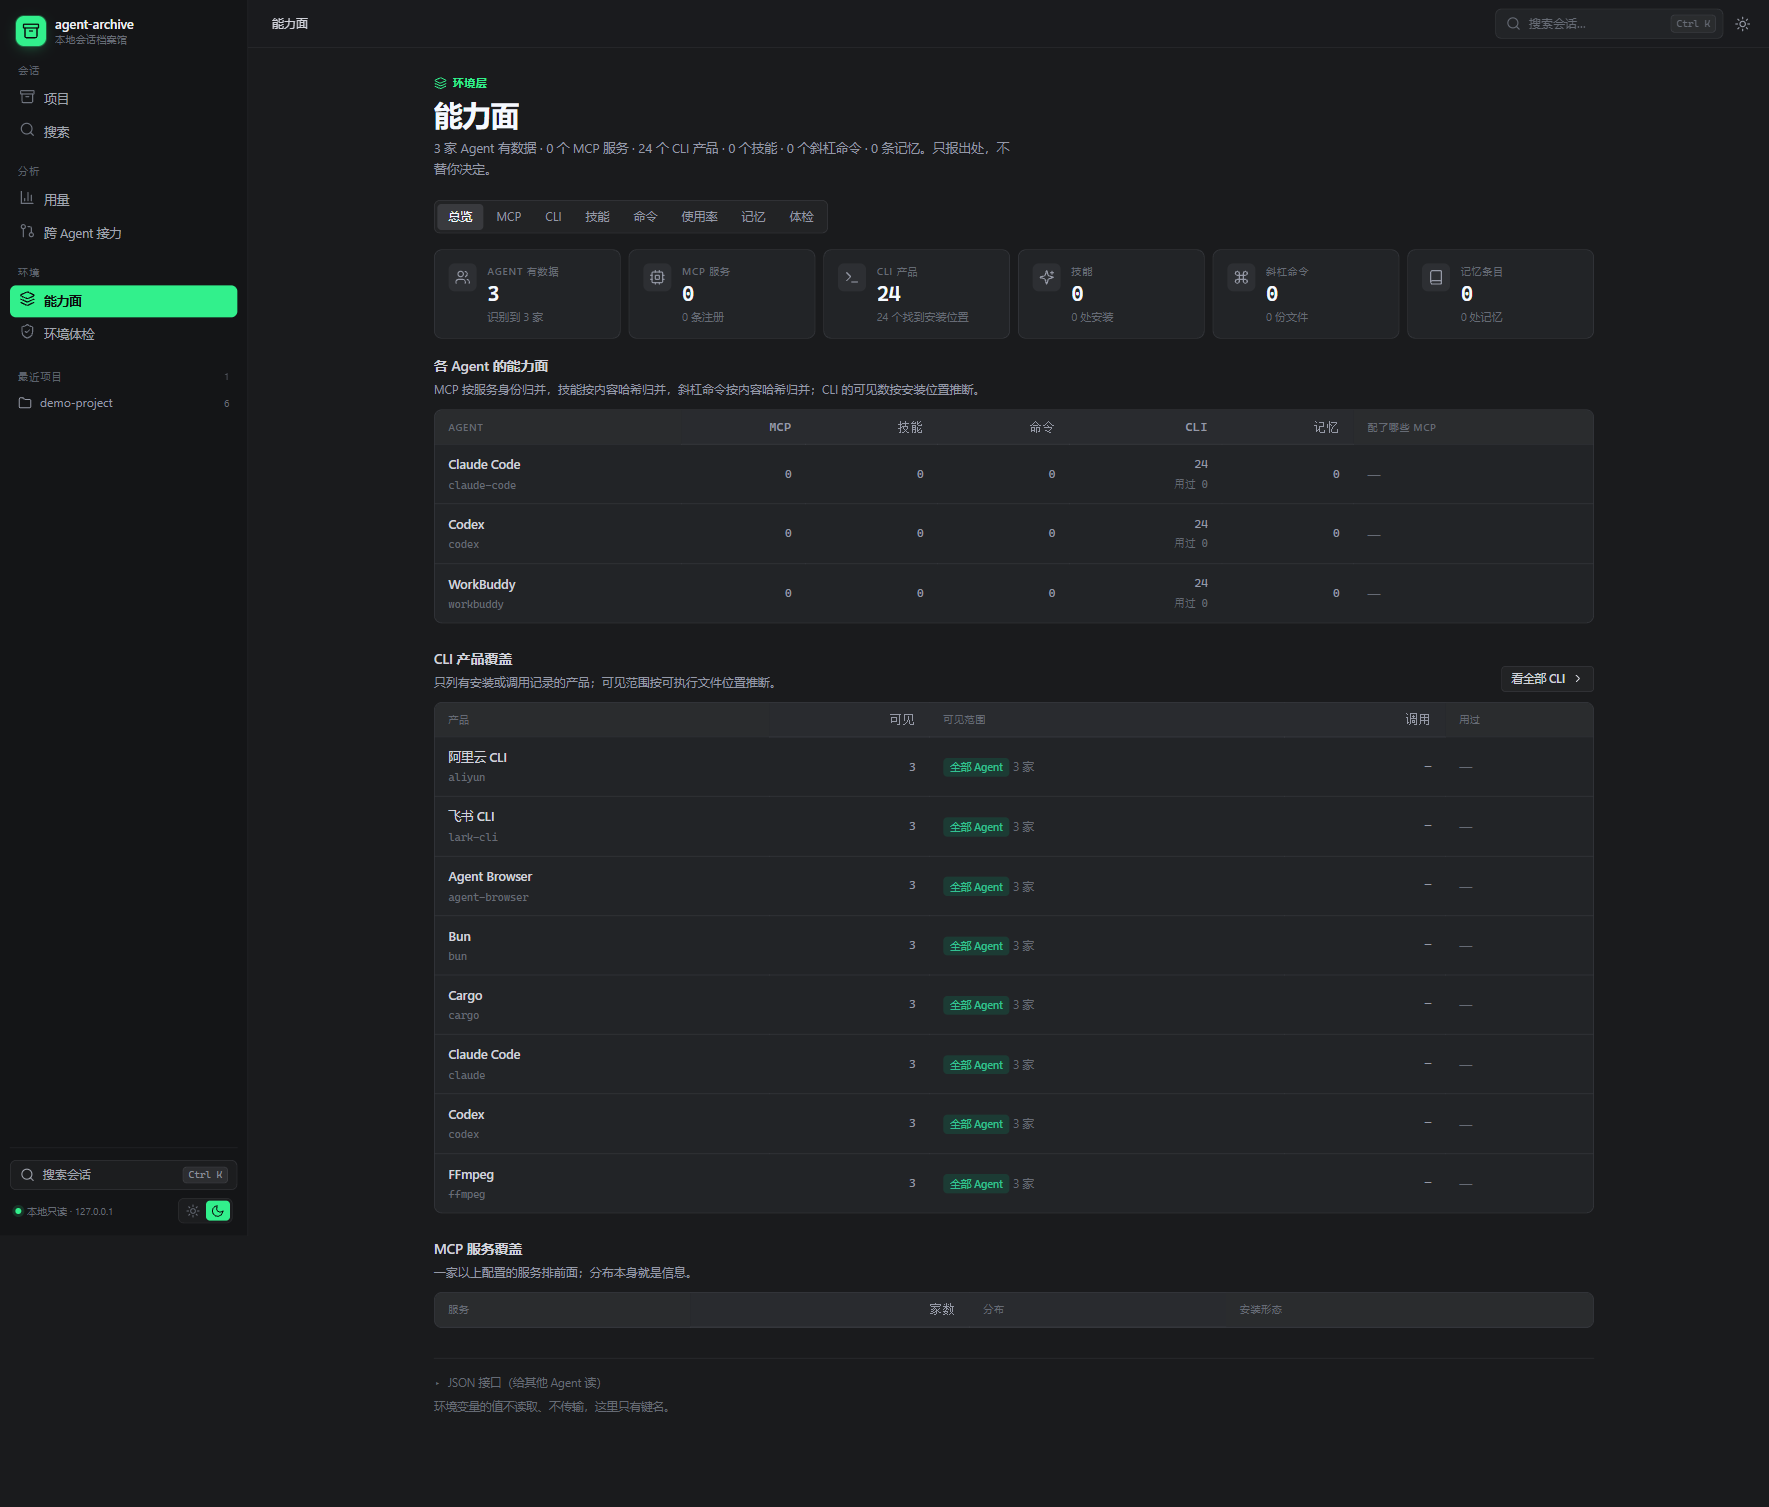
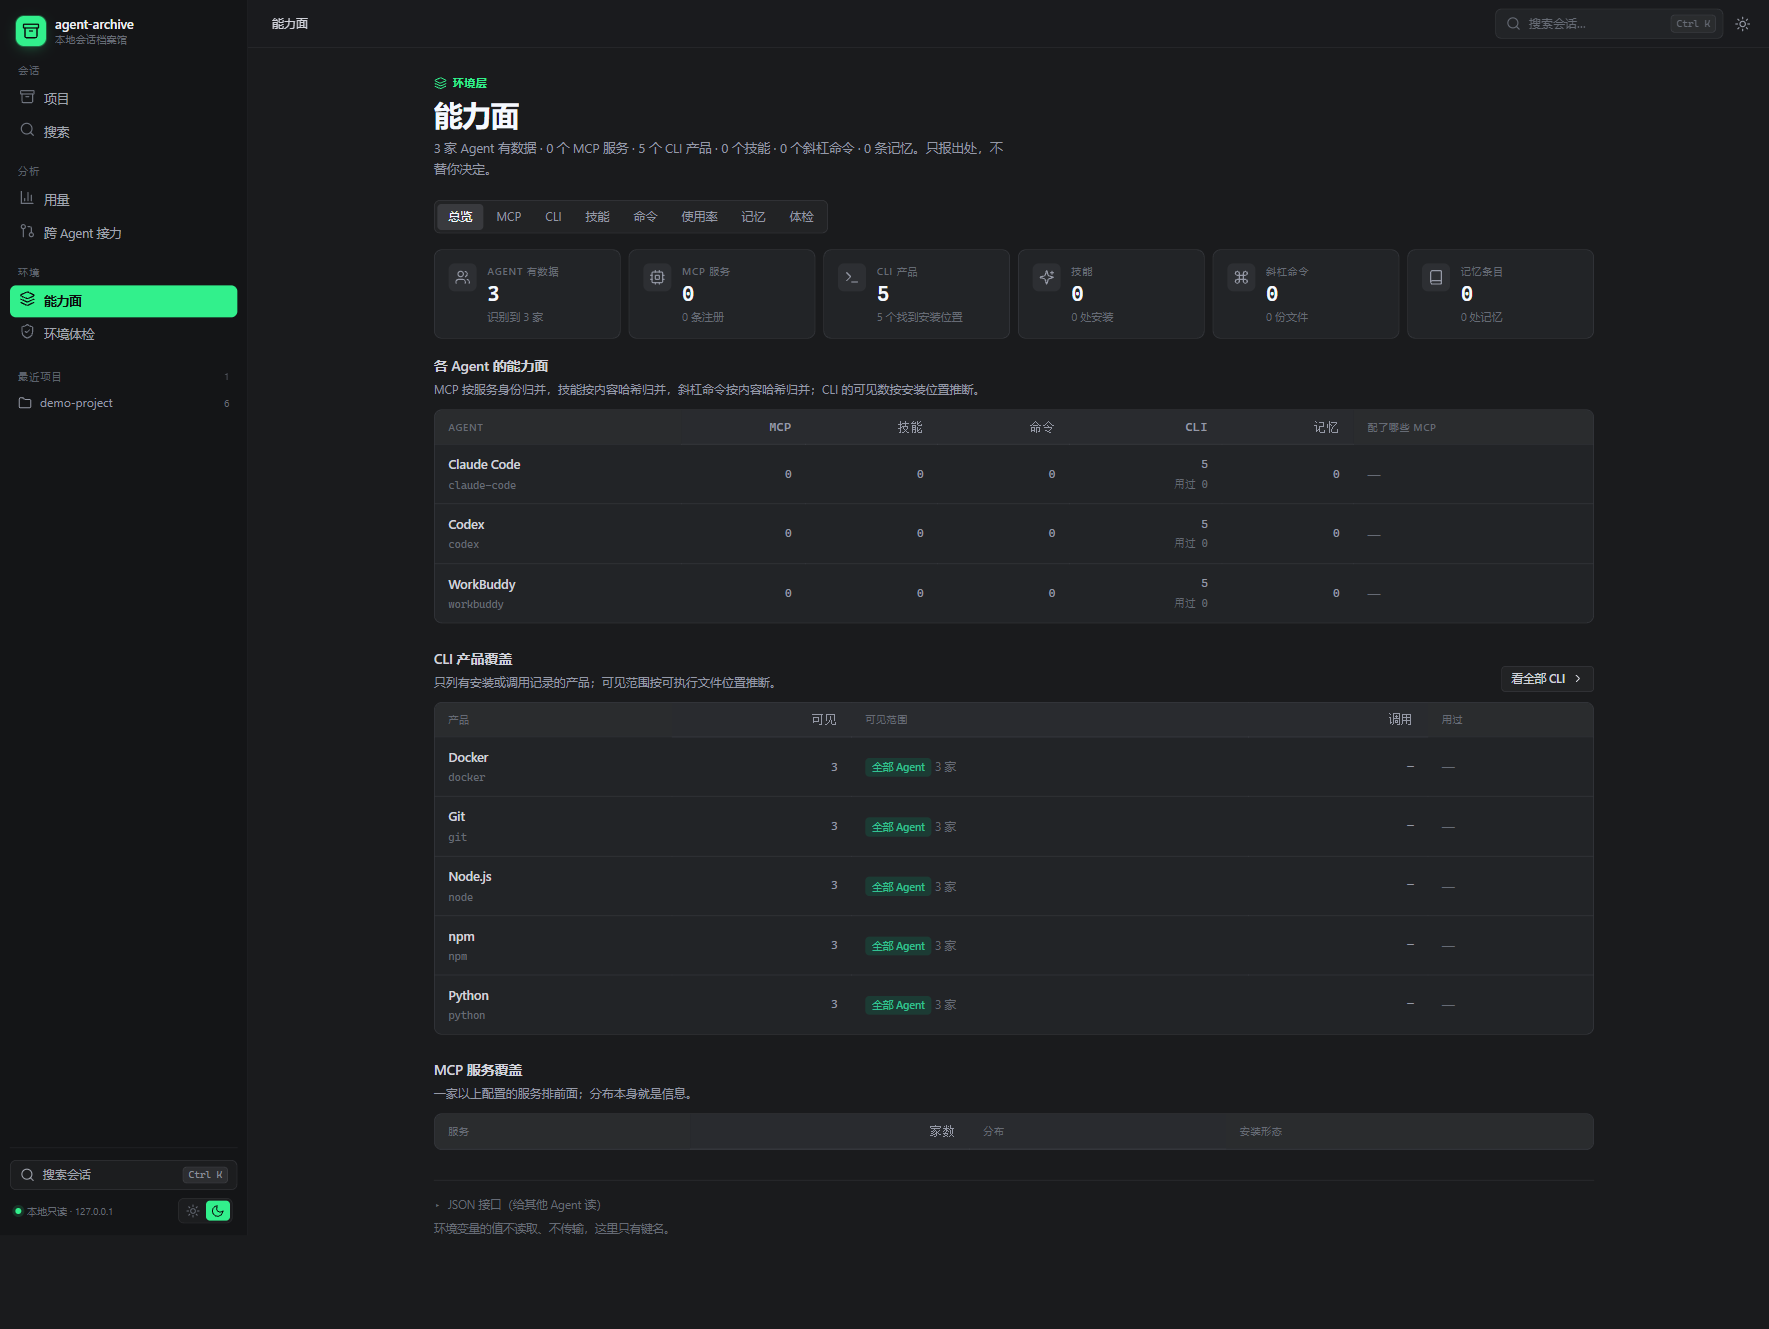
fix: demo 不该列出本机装了哪些软件（分享截图的隐私）
`env cli` 扫的是 `PATH`，而 demo 只隔离了家目录和平台数据根，**没动 PATH**。
于是 demo 的能力面列出的是跑它那台机器的真实软件：阿里云 CLI、飞书 CLI、
Agent Browser、Cargo、ffmpeg……

这不是洁癖问题。demo 的定位是"没有数据也能看到效果"，而它的截图正是最
容易被贴到群聊、issue、博客里的东西——一贴就等于公开自己的软件清单，
里面有公司内部工具和云账号工具。

修法不是把 PATH 清空（能力面会空掉，截图和 demo 都像坏了），而是换成
demo 自己的 bin 目录，里面只放 git / node / npm / docker / python 五个
空壳文件——`env cli` 只 stat 不执行，所以内容是空的也能识别。这样：

  - 任何人跑 demo 看到的完全一样，截图可以放心贴；
  - 指向的是一眼就是示例的名字，不指向任何真实用户。

两个实现细节：

1. bin 目录放在**假家目录里面**（`~/.demo-bin`）。放临时目录根的话，
   `tildify()` 不会缩写，路径会显示成 `/tmp/aa-demo-xxx/demo-bin/git`
   ——而 Windows 的临时目录名带本机用户名的 8.3 短名（实测 `ADMINI~1.DES`），
   等于换个地方泄漏。

2. PATH 要按**大小写不敏感**处理。Windows 上这个变量的真实键名常是 `Path`，
   直接 `env.PATH = x` 可能既没覆盖原来的，又凭空多出一个。新增
   `applyDemoEnv()` 统一处理：先删掉所有大小写变体再写规范键名。

新增两条测试：
  - `demo 能力面不列出本机真实安装的软件`——先读父进程 PATH 里实际存在的
    可执行文件，再断言 demo 输出里一个都没有。比写死软件名可靠：在没装那些
    软件的机器上，写死的名字永远是绿的。
  - `demoEnv` 那条改成断言 PATH **必须**被换掉（原来断言的正好相反）。

反向验证过：临时把 PATH 还原成真实值，demo 立刻输出
aliyun / lark-cli / agent-browser / cargo / ffmpeg。

顺带重截 04-env / 05-commands 两张图——旧图是拿本机真实环境截的，
上面就是那份软件清单。

diff --git a/test/demo.test.js b/test/demo.test.js
@@ -466,15 +466,78 @@ test('demo: 清空覆盖变量——CODEX_HOME 指向别处也漏不进 demo', a
   assert.doesNotMatch(out, /POISON-PROJECT/, 'CODEX_HOME 没清掉，demo 读到了本机数据');
 });
 
+test('demo: 能力面不列出本机真实安装的软件（PATH 必须隔离）', async () => {
+  // 这条盯的是"demo 截图会泄露什么"。demo 的能力面会扫 PATH 列出"装了哪些
+  // 命令行产品"——留着真实 PATH，用户一贴截图就等于公开自己的软件清单
+  // （内部工具、公司私有 CLI、云账号工具……）。
+  //
+  // 断言方式：先看**父进程** PATH 里实际存在哪些可执行文件，再断言 demo 的
+  // 输出里一个都没有。比写死某个软件名可靠——在没装那些软件的机器上，
+  // 写死的名字会让这条用例永远是绿的。
+  let out = '';
+  const code = await runDemo(['env', 'cli'], {
+    onOutput: (t) => {
+      out += t;
+    },
+  });
+  assert.equal(code, 0, `demo env cli 应该跑通，输出：${out}`);
+
+  // 父进程 PATH 里真实存在的可执行文件名（挑几个最可能被识别成"产品"的）
+  const realBins = [];
+  for (const dir of String(process.env.PATH || '').split(path.delimiter)) {
+    if (!dir) continue;
+    let entries;
+    try {
+      entries = fs.readdirSync(dir);
+    } catch {
+      continue;
+    }
+    for (const e of entries) {
+      const base = e.replace(/\.(exe|cmd|bat|ps1|com)$/i, '').toLowerCase();
+      // 只挑有辨识度的：太短的名字（ls/cp/git）在样例里本来就可能出现
+      if (base.length >= 6 && /^[a-z][a-z0-9-]+$/.test(base)) realBins.push(base);
+    }
+    if (realBins.length > 400) break;
+  }
+
+  if (!realBins.length) return; // 没有可比的样本，跳过（不算通过也不算失败）
+
+  const leaked = realBins.filter((b) => new RegExp(`\\b${b}\\b`, 'i').test(out));
+  assert.deepEqual(
+    leaked.slice(0, 10),
+    [],
+    `demo 输出里出现了本机真实安装的软件：${leaked.slice(0, 10).join(', ')}`
+  );
+});
+
 test('demo: demoEnv 只打补丁，不整体替换环境变量', () => {
   const box = materializeDemo();
   try {
     const env = demoEnv(box.home, box.state);
-    // PATH 之类必须留着：整体替换会让 Windows 上的 spawn 都不可靠。
-    // 注意 Windows 上这个变量的实际键名常是 `Path`（不是全大写），
-    // 所以按大小写不敏感去找，别假设键名。
-    const pathKey = Object.keys(process.env).find((k) => k.toLowerCase() === 'path');
-    if (pathKey) assert.equal(env[pathKey], process.env[pathKey], `${pathKey} 不该被改`);
+    // 除了 PATH，其余原样保留：整体替换会让 Windows 上的 spawn 都不可靠
+    // （SystemRoot / TEMP / ComSpec 都还要用）。
+    assert.ok(env.SystemRoot || process.platform !== 'win32', 'SystemRoot 之类要留着');
+
+    // **PATH 是例外，必须换掉。** `env cli` 会扫 PATH 列出"装了哪些命令行
+    // 产品"，`env skills` / `env mcp` 也会顺着 PATH 找私有目录。留着真实
+    // PATH，demo 的能力面就会列出用户本机装的内部工具——而 demo 截图正是
+    // 最容易被贴到群聊和 issue 里的东西。
+    //
+    // 取值要大小写不敏感：Windows 上原键名常是 `Path`，补丁写的是 `PATH`。
+    const findKey = (obj, name) =>
+      Object.keys(obj).find((k) => k.toLowerCase() === name.toLowerCase());
+    const demoPathKey = findKey(env, 'path');
+    assert.ok(demoPathKey, 'demo 环境里必须有 PATH（哪怕指向空目录）');
+    assert.notEqual(
+      env[demoPathKey],
+      process.env[findKey(process.env, 'path')],
+      'PATH 必须被换成空目录'
+    );
+    assert.equal(
+      findKey(env, 'path') && Object.keys(env).filter((k) => k.toLowerCase() === 'path').length,
+      1,
+      'PATH 不该同时存在两个大小写变体'
+    );
 
     assert.equal(env.USERPROFILE, box.home);
     assert.equal(env.HOME, box.home);

diff --git a/src/demo.js b/src/demo.js
@@ -244,9 +244,74 @@ export function demoEnvPatch(home, state) {
     XDG_DATA_HOME: path.join(dir, 'xdg-data'),
     XDG_CONFIG_HOME: path.join(dir, 'xdg-config'),
     XDG_CACHE_HOME: path.join(dir, 'xdg-cache'),
+
+    // **PATH 也要换掉。** 这一条不是洁癖：`env cli` 会扫 PATH 列出"装了哪些
+    // 命令行产品"，`env skills` / `env mcp` 也会顺着 PATH 找私有目录。
+    // 留着真实 PATH，demo 的能力面就会列出用户本机装的阿里云 CLI、飞书 CLI、
+    // 各种内部工具——而 demo 的截图正是最容易被贴到群里/issue 里的东西。
+    //
+    // 换成 demo 自己的 bin 目录（里面只有几个通用工具的空壳），这样能力面
+    // 那块不是一片空白，同时**指向的是一眼就是示例的名字**。
+    //
+    // 放在**假家目录里面**（不是临时目录根）：`tildify()` 只把家目录缩成 `~`，
+    // 放在外面的话路径会显示成 `/tmp/aa-demo-xxx/demo-bin/git`——临时目录名
+    // 里带本机用户名的 8.3 短名（实测 `ADMINI~1.DES`），等于换个地方泄漏。
+    PATH: demoBinDir(path.join(absHome, '.demo-bin')),
   };
   for (const name of OVERRIDE_VARS) patch[name] = null;
   return patch;
+}
+
+/**
+ * demo 专用的 PATH 目录：放几个通用工具的空壳文件。
+ *
+ * 为什么不是干脆空 PATH：能力面里"CLI 产品覆盖"是一整块面板，空着的话
+ * 截图和 demo 都像坏了。但也不能用真实 PATH——那会泄漏用户装了什么。
+ *
+ * 折中：造几个**跨平台的通用工具**（git / node / npm / docker / python），
+ * 内容是空的、只要求文件存在（`env cli` 只 stat 不执行）。这样：
+ *   - 任何人跑 demo 看到的都一样，截图可以放心贴；
+ *   - 不会指向任何真实用户装的东西。
+ *
+ * @param {string} bin 已经是最终目录（调用方给全路径，别再拼一层）
+ */
+function demoBinDir(bin) {
+  try {
+    fs.mkdirSync(bin, { recursive: true });
+    const ext = process.platform === 'win32' ? '.exe' : '';
+    for (const name of ['git', 'node', 'npm', 'docker', 'python']) {
+      const f = path.join(bin, name + ext);
+      if (!fs.existsSync(f)) fs.writeFileSync(f, '', 'utf8');
+    }
+  } catch {
+    /* 建不出来就让 PATH 指一个不存在的目录，能力面为空——比泄漏好 */
+  }
+  return bin;
+}
+
+/**
+ * 把补丁应用到一份环境变量上。
+ *
+ * **PATH 要按大小写不敏感处理**：Windows 上这个变量的真实键名常常是 `Path`
+ * （不是全大写），而 `process.env` 在 Windows 上是大小写不敏感的代理对象——
+ * 直接 `env.PATH = x` 可能既没覆盖掉原来的 `Path`，又凭空多出一个 `PATH`。
+ * 所以先把所有大小写变体删掉，再写一个规范键名。
+ */
+export function applyDemoEnv(env, patch) {
+  const out = { ...env };
+  for (const [k, v] of Object.entries(patch)) {
+    if (v === null) {
+      delete out[k];
+      continue;
+    }
+    // 同一个键的其它大小写变体一起清掉，避免 Windows 上留下两份
+    const lower = k.toLowerCase();
+    for (const existing of Object.keys(out)) {
+      if (existing !== k && existing.toLowerCase() === lower) delete out[existing];
+    }
+    out[k] = String(v);
+  }
+  return out;
 }
 
 /**
@@ -257,12 +322,7 @@ export function demoEnvPatch(home, state) {
  * `withEnv` 是同一个取舍。
  */
 export function demoEnv(home, state) {
-  const env = { ...process.env };
-  for (const [k, v] of Object.entries(demoEnvPatch(home, state))) {
-    if (v === null) delete env[k];
-    else env[k] = String(v);
-  }
-  return env;
+  return applyDemoEnv(process.env, demoEnvPatch(home, state));
 }
 
 /* ------------------------------ 跑子进程 ------------------------------ */
